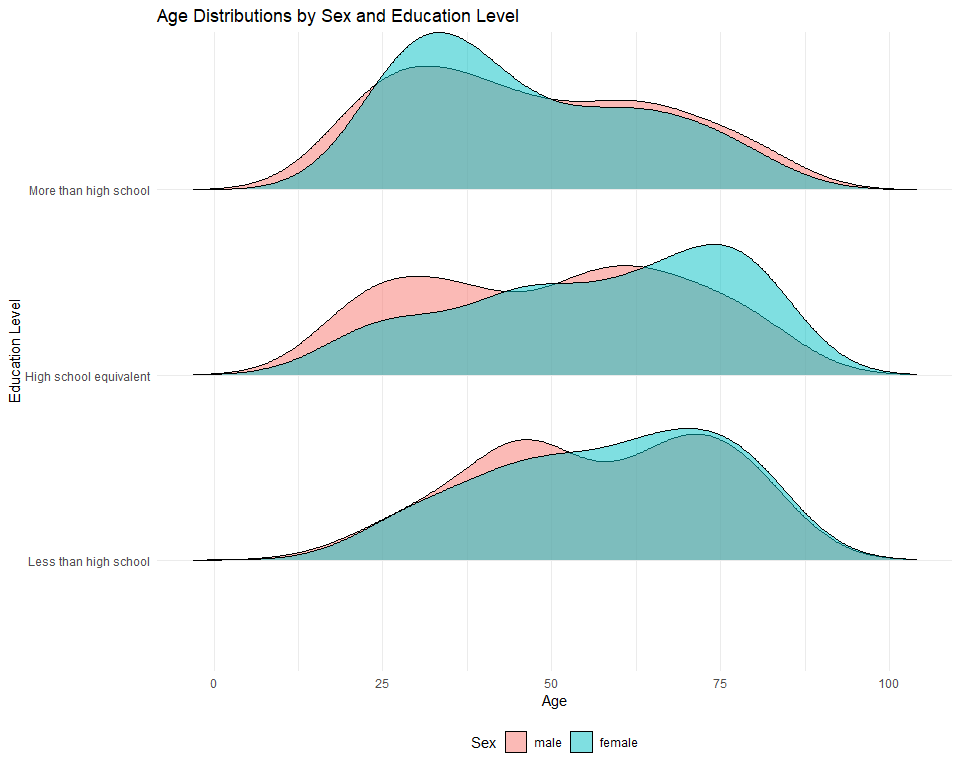
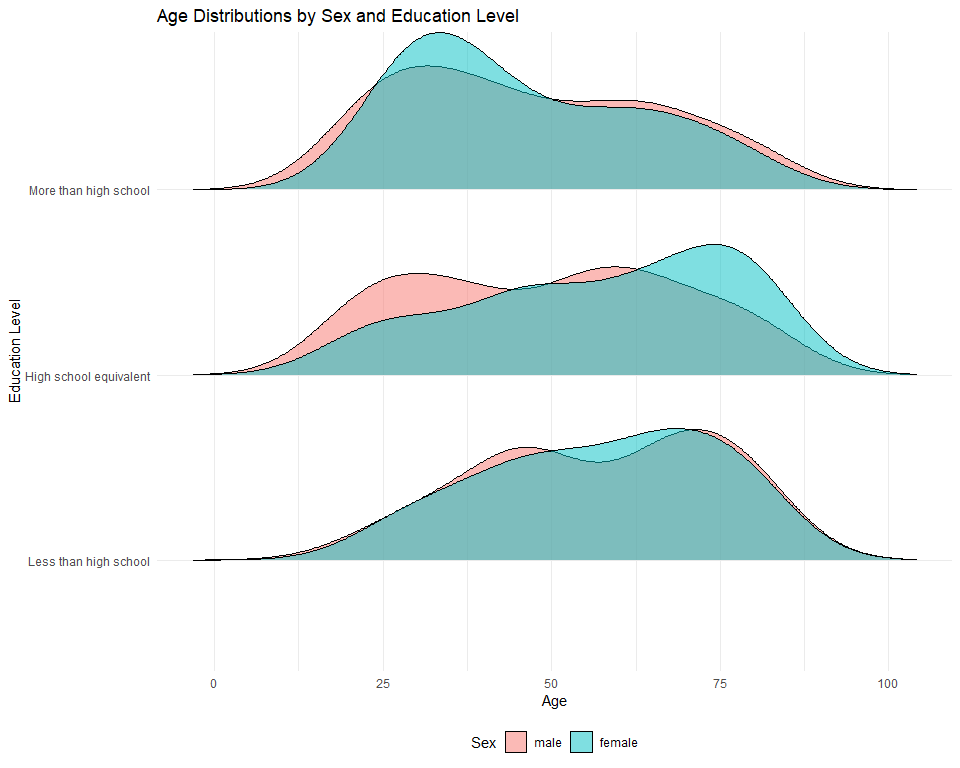
Fixed NA issues in Problem 3

diff --git a/p8105_hw3_mb5357.md b/p8105_hw3_mb5357.md
@@ -394,19 +394,21 @@ ggsave("results/combined_plot.png", combined_plot, width = 10, height = 8)
 
 ``` r
 accel_df <- read_csv("nhanes_accel.csv", show_col_types = FALSE) |>
+  janitor::clean_names() |> 
   pivot_longer(
     cols = starts_with("min"),
     names_to = "minute",
     values_to = "mims"
   ) |>
-  mutate(minute = as.integer(str_remove(minute, "min")))
-
+  mutate(minute = as.integer(str_remove(minute, "min"))) |> 
+  drop_na()
 
 
 sex_levels <- c("male", "female")
 education_levels <- c("Less than high school", "High school equivalent", "More than high school")
 
 covar_df <- read_csv("nhanes_covar.csv", skip = 4, show_col_types = FALSE) |>
+  janitor::clean_names() |> 
   mutate(
     sex = case_when(
       sex == 1 ~ sex_levels[1],
@@ -427,12 +429,13 @@ covar_df <- read_csv("nhanes_covar.csv", skip = 4, show_col_types = FALSE) |>
   mutate(
     sex = factor(sex, levels = sex_levels),
     education = factor(education, levels = education_levels, ordered = TRUE)
-  )
+  ) |> 
+  drop_na()
 
 
 nhanes_df <- left_join(accel_df, covar_df, 
-                       by = "SEQN") |>
-             drop_na(sex, age, education)
+                       by = "seqn") |> 
+                       drop_na()
 ```
 
 **Number of men and women in each education category**
@@ -443,9 +446,7 @@ sex_dist_table <- covar_df |>
   
   pivot_wider(
     names_from = sex,
-    values_from = n,
-    values_fill = 0
-  )
+    values_from = n)
 
 sex_dist_table |> 
   kable()
@@ -453,8 +454,8 @@ sex_dist_table |>
 
 | education              | male | female |
 |:-----------------------|-----:|-------:|
-| Less than high school  |   28 |     29 |
-| High school equivalent |   36 |     23 |
+| Less than high school  |   27 |     28 |
+| High school equivalent |   35 |     23 |
 | More than high school  |   56 |     59 |
 
 The table shows a fairly even gender distribution across education
@@ -498,7 +499,7 @@ the “Less than high school” group.
 
 ``` r
 total_activity_df <- nhanes_df |> 
-  group_by(SEQN, sex, age, education) |>
+  group_by(seqn, sex, age, education) |>
   
   summarise(total_mims = sum(mims, na.rm = TRUE), 
             .groups = "drop")
